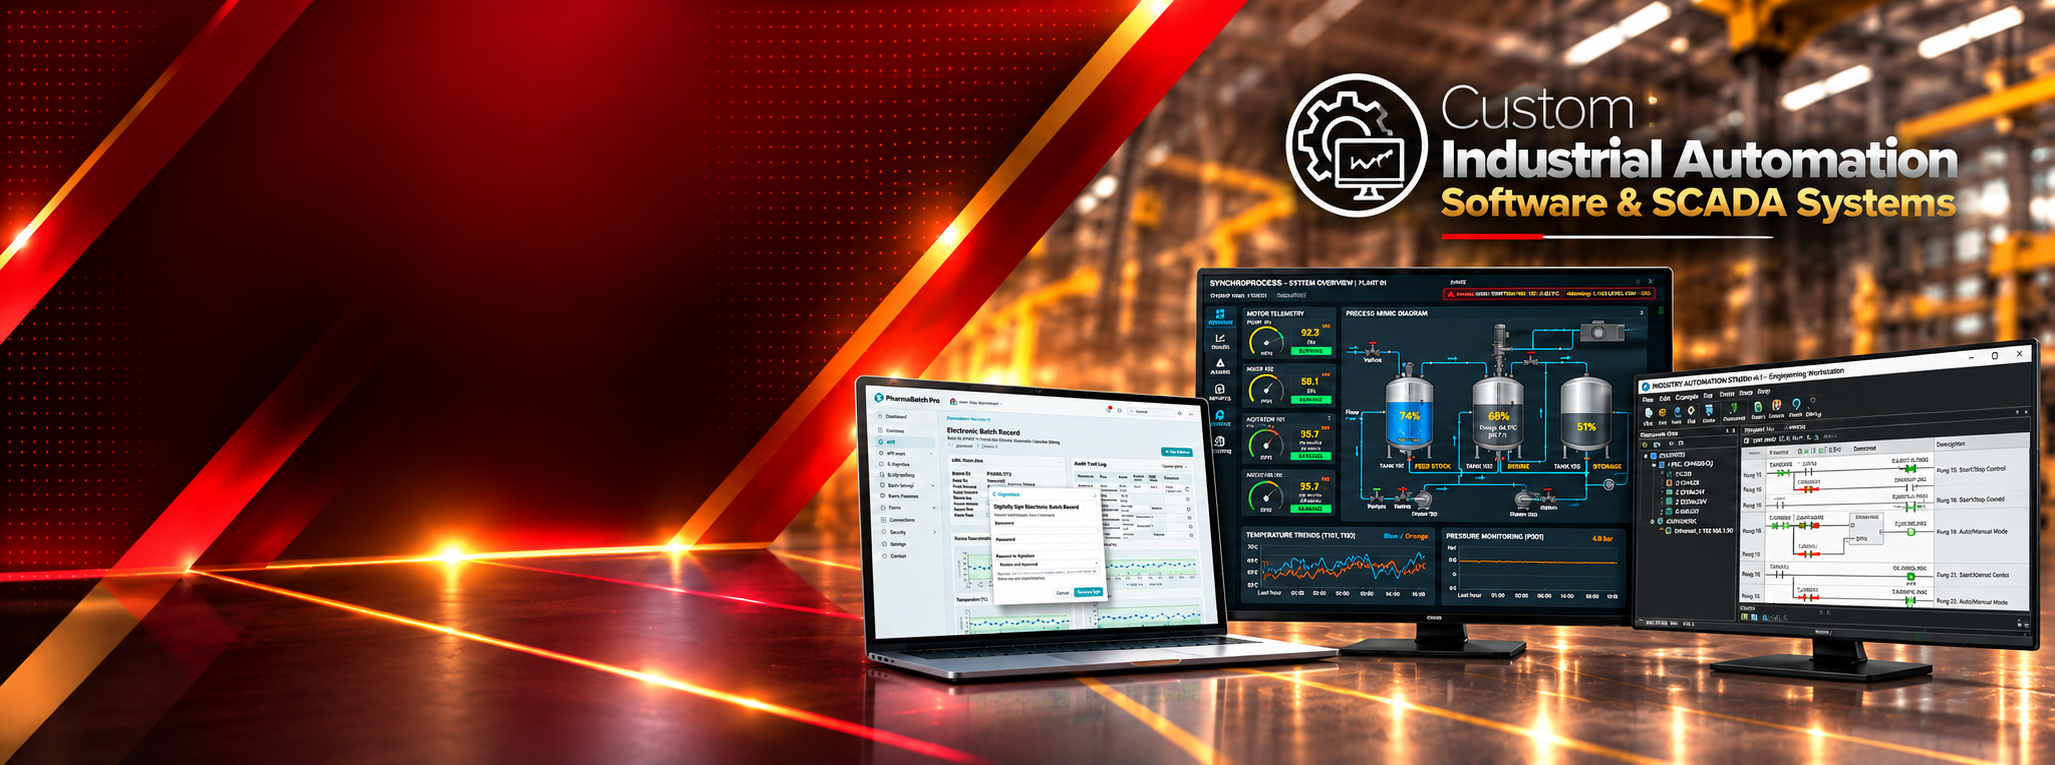
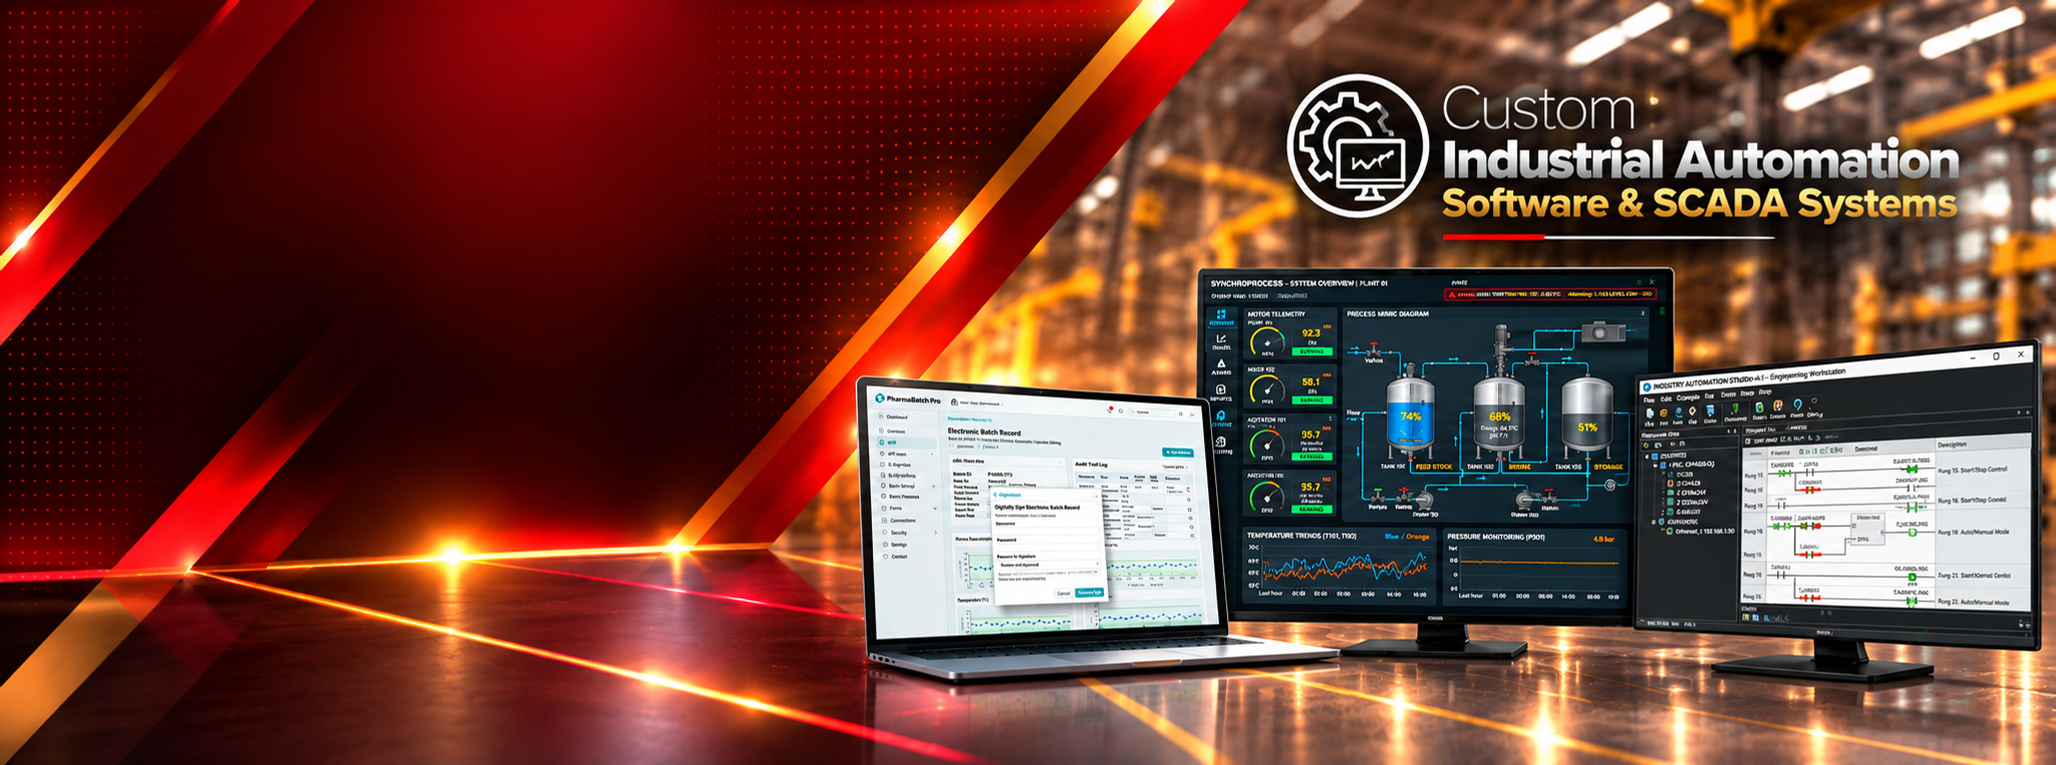
fix(home): eliminate hero gaps by standardizing images to 2056x765 and updating cover fit

diff --git a/src/app/globals.css b/src/app/globals.css
@@ -231,11 +231,11 @@ img {
   transition: background 0.2s;
 }
 
-/* Hero Section - Matched to Hero Image Aspect Ratio (2170 x 725 ≈ 2.99:1) */
+/* Hero Section - Matched to Hero Image Aspect Ratio (2056 x 765 ≈ 2.6876:1) */
 .hero {
   position: relative;
   width: 100%;
-  aspect-ratio: 2170 / 725;
+  aspect-ratio: 2056 / 765;
   background: #080303;
   color: white;
   overflow: hidden;
@@ -318,10 +318,11 @@ img {
 }
 
 .hero-bg-image img {
-  object-fit: contain !important;
+  object-fit: cover !important;
   object-position: center !important;
   width: 100% !important;
   height: 100% !important;
+  max-width: none !important;
   filter: brightness(0.98) contrast(1.02);
   transition: filter 0.3s ease;
 }
@@ -339,7 +340,7 @@ img {
   .hero-bg-image {
     position: relative;
     width: 100%;
-    aspect-ratio: 2170 / 725;
+    aspect-ratio: 2056 / 765;
     height: auto;
     inset: auto;
   }

diff --git a/src/app/page.tsx b/src/app/page.tsx
@@ -154,7 +154,7 @@ export default function Home() {
                 src={item.src}
                 alt={item.title}
                 fill
-                style={{ objectFit: "contain", objectPosition: "center" }}
+                style={{ objectFit: "cover", objectPosition: "center" }}
                 priority={idx === 0}
               />
             </div>
